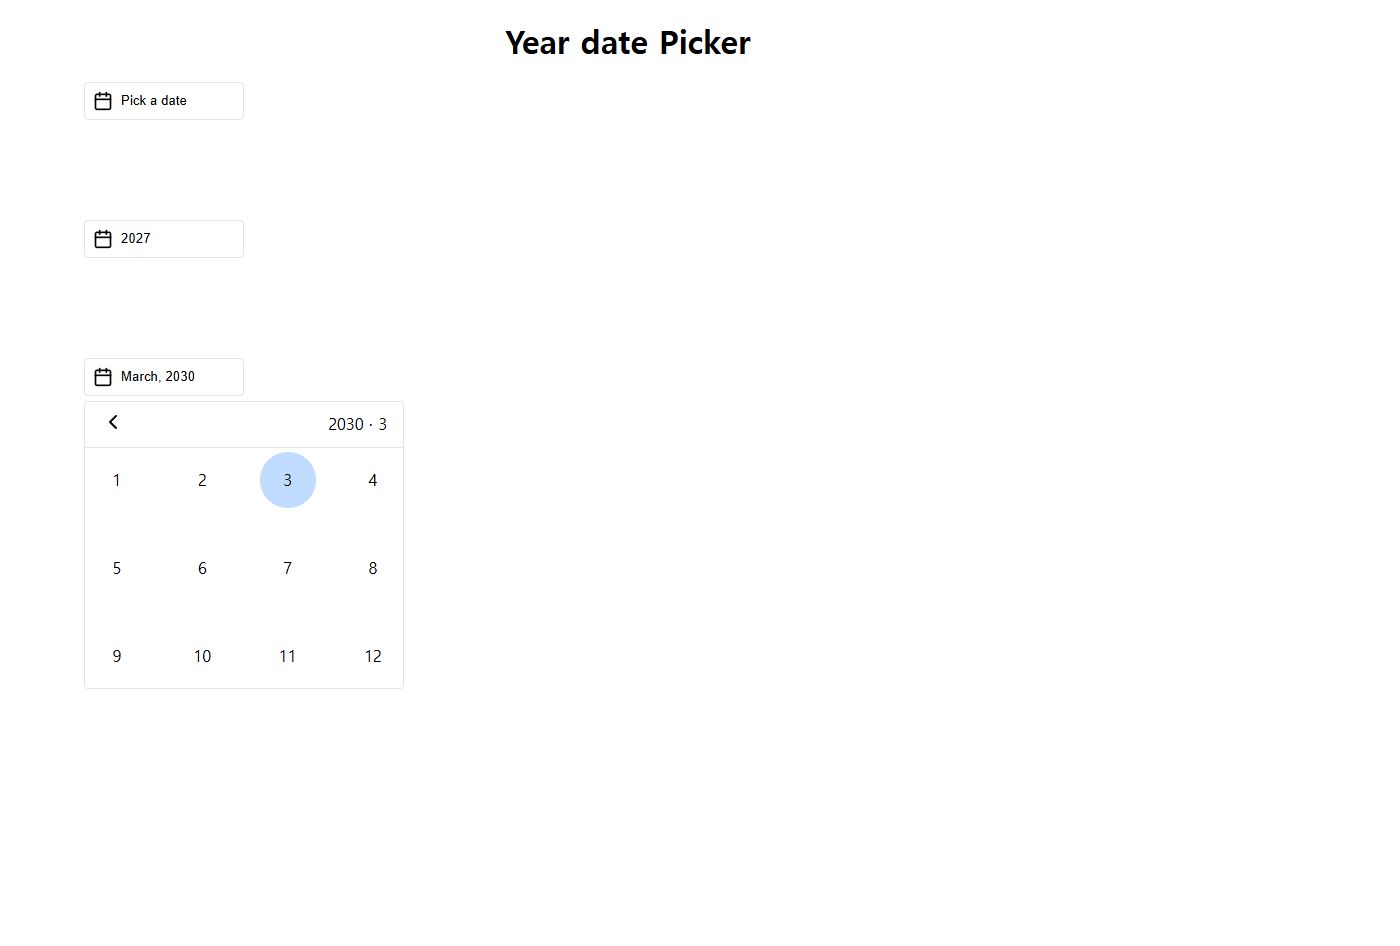
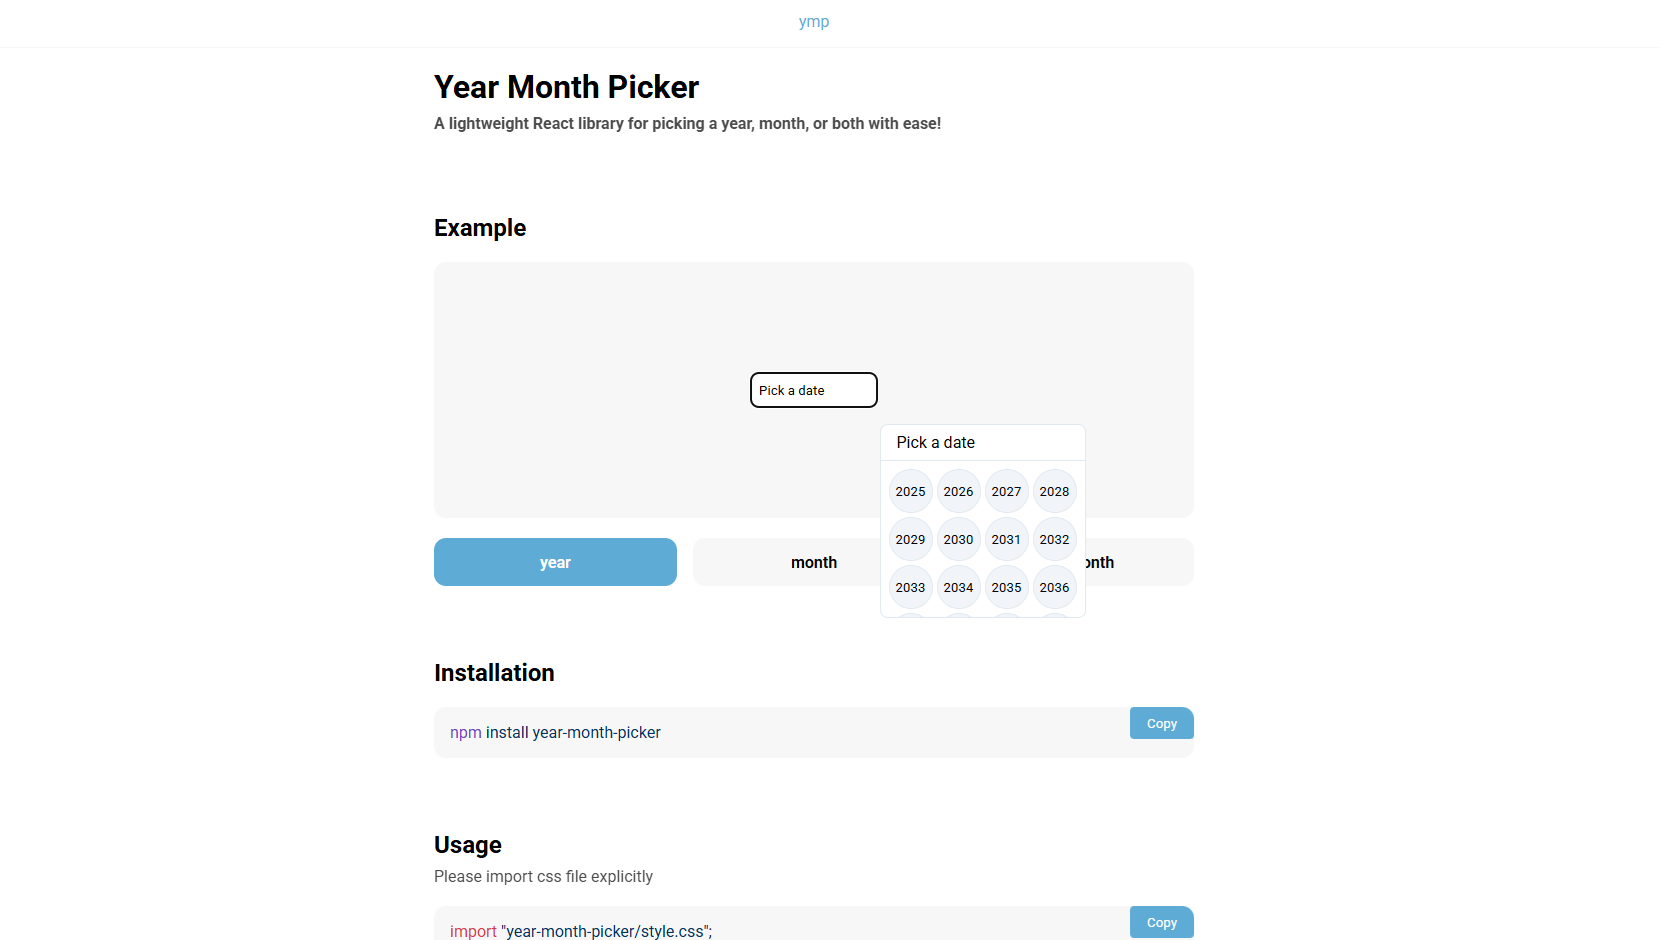
chore: 추가 이미지 첨부 및 경로 변경
react-ym-picker → year-month-picker

diff --git a/constant.ts b/constant.ts
@@ -64,21 +64,25 @@ export const PROJECTS = [
   },
   {
     id: "project-3",
-    title: "React YearMonth Picker",
+    title: "Year Month Picker",
     description: "리액트 날짜선택 UI 라이브러리",
-    images: ["/projects/ym-picker/ym-picker-1.png", "/projects/ym-picker/ym-picker-1.png"],
+    images: [
+      "/projects/ym-picker/ym-picker-1.png",
+      "/projects/ym-picker/ym-picker-2.png",
+      "/projects/ym-picker/ym-picker-3.png",
+    ],
     links: [
       {
         name: "npm",
-        url: "https://www.npmjs.com/package/react-year-date-picker",
+        url: "https://www.npmjs.com/package/year-month-picker",
       },
       {
         name: "깃허브",
-        url: "https://github.com/mrbonk97/react-year-date-picker",
+        url: "https://github.com/mrbonk97/year-month-picker",
       },
       {
         name: "테스트",
-        url: "https://mrbonk97.github.io/react-year-date-picker",
+        url: "https://mrbonk97.github.io/year-month-picker",
       },
     ],
   },
